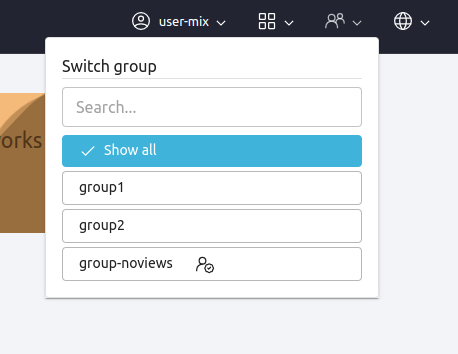
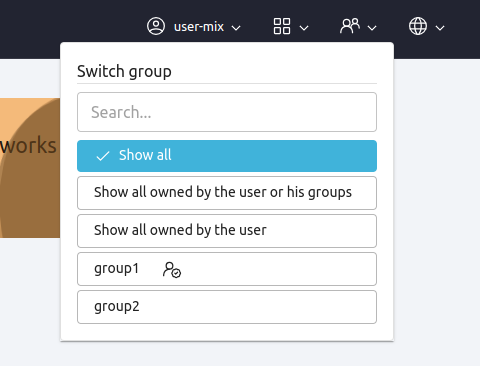
B OpenNebula/one#6455: Add new Show options in groups menu. What's new updated.

Changed region(s): [[0.0, 0.0311, 1.0, 0.8701], [0.8559, 0.0311, 0.9476, 0.0932], [0.0, 0.6215, 0.0917, 0.6836]]

diff --git a/source/management_and_operations/users_groups_management/manage_groups.rst b/source/management_and_operations/users_groups_management/manage_groups.rst
@@ -216,7 +216,9 @@ All the described functionality is available graphically using :ref:`Fireedge Su
 
 |sunstone_group_list|
 
-There is an option to filter all system resources by ``group``. In the user's menu appear the groups of this user. There's the option ``Show All`` to see all system resources. When you filter by group, you also change the effective group of the user.
+In the user's menu appear the groups of an user where the user can filter all system resources by ``group``. When you filter by group, you also change the effective group of the user.
+
+There's the option ``Show all`` to see all system resources, the option ``Show all owned by the user or his groups`` to see all resources that belong to the user or one of his groups and the option ``Show all owned by the user`` to see all resources that belong to the user.
 
 This allows to work more comfortably on projects, by isolating the resources belonging to one group from others.
 

diff --git a/source/intro_release_notes/release_notes/whats_new.rst b/source/intro_release_notes/release_notes/whats_new.rst
@@ -67,3 +67,4 @@ Also, the following issues have been solved in the FireEdge Sunstone Web UI:
 - `Fix enhance placement tab <https://github.com/OpenNebula/one/issues/6419>`__.
 - `Fix change user password on FireEdge Sunstone <https://github.com/OpenNebula/one/issues/6471>`__.
 - `Fix separate Vms and vm views <https://github.com/OpenNebula/one/issues/6092>`__.
+- `Fix modify "Show All" option on switch group menu <https://github.com/OpenNebula/one/issues/6455>`__.
